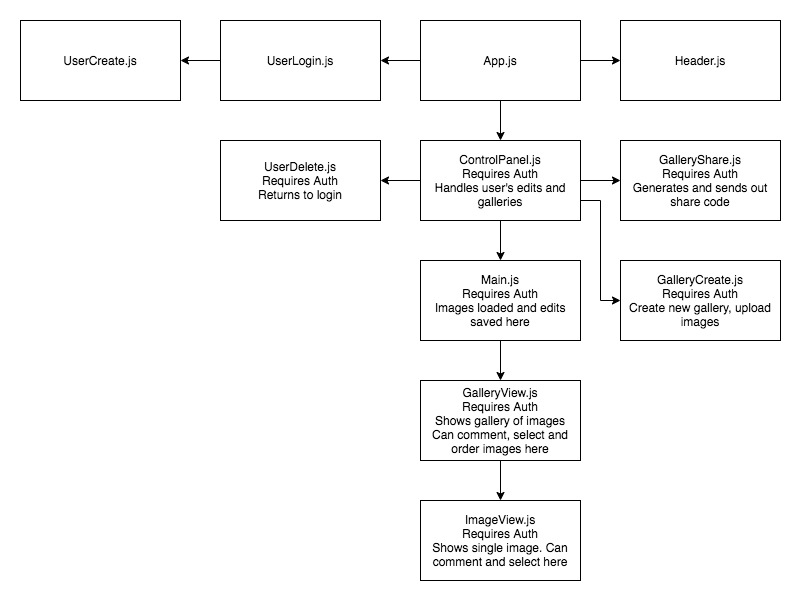
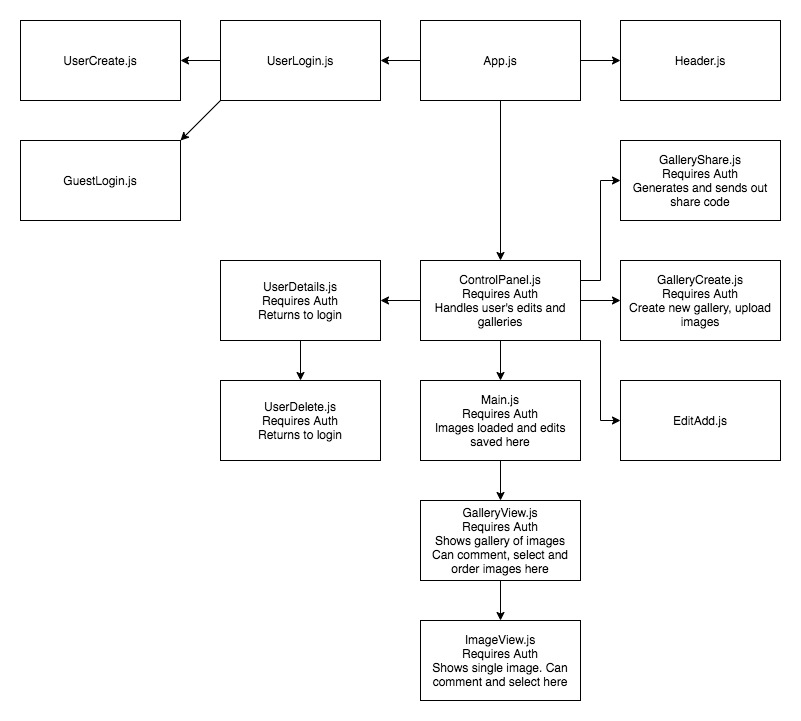
updated readme

diff --git a/src/components/EditShare.jsx b/src/components/EditShare.jsx
@@ -2,7 +2,7 @@ import React from 'react'
 import Header from './shared/Header'
 import { useHistory } from 'react-router-dom'
 
-// awaiting backend 
+// awaiting backend -> renamed to Gallery Share
 
 export default function EditShare(props) {
     const style = {

diff --git a/README.md b/README.md
@@ -67,7 +67,6 @@ These wireframes will be for desktop and tablet views. They will look similar wi
 | ControlPanel   | User info and brains of the app |
 | UserDelete     | Deletes user        |
 | GalleryShare   | Generates share code, shares with others |
-| Main           | Loads images and allows gallery operations |
 | GalleryCreate  | User uploads images and creates galleries |
 | GalleryView    | Overview of images, displays and allows editing here. Images can be sorted, tagged and ordered here |
 | ImageView      | View single image. User can zoom in, comment or select images | 
@@ -77,26 +76,28 @@ These wireframes will be for desktop and tablet views. They will look similar wi
 
 UserController
 GalleryController
-EditController
 PhotoController
 
 #### Routes
 
 | Controller | Operation | VERB | Route |
 |-------|---------|------------|---------|
-| User  | #view | GET | /user/:id|
+| Authentication | login | POST | /auth/login |
+| Authentication | verify | GET | /auth/verify |
+| User  | #show | GET | /user/:id|
 | User | #create | POST | /user |
-| User | #update | Put | /user/:id |
-| User | #delete | DELETE | /user/:id |
-| Gallery | #index | GET | /user/:id/gallery
-| Gallery | #view | GET | /gallery/:id|
-| Gallery | #create | POST | /gallery |
-| Gallery | #update | Put | /gallery/:id |
-| Gallery | #delete | DELETE | /gallery/:id |
-| Photo  | #view | GET | /gallery/:gallery_id/photo/:id|
-| Photo | #create | POST | /gallery/:gallery_id/photo |
-| Photo | #update | Put | /gallery/:gallery_id/photo/:id |
-| Photo | #delete | DELETE | /gallery/:gallery_id/photo/:id |
+| User | #update | PUT | /user/:id |
+| User | #destroy | DELETE | /user/:id |
+| Gallery | #index | GET | /gallery
+| Gallery | #show | GET | /galleries/:id|
+| Gallery | #create | POST | /galleries |
+| Gallery | #update | PUT | /galleries/:id |
+| Gallery | #destroy | DELETE | /galleries/:id |
+| Photo  | #index | GET | /galleries/:gallery_id/photos
+| Photo  | #view | GET | /gallery/:gallery_id/photos/:id|
+| Photo | #create | POST | /gallery/:gallery_id/photos |
+| Photo | #update | PUT | /gallery/:gallery_id/photos/:id |
+| Photo | #delete | DELETE | /gallery/:gallery_id/photos/:id |
 
 
 #### Priority Matrix
@@ -109,10 +110,11 @@ PhotoController
 | File Uploads (Front End) | H | 8 hrs | 12 hrs | |
 | Upload to AWS | H | 12 hrs | 12 hrs | | 
 | Images retrieved and rendered front end | H | 8 hrs | 8 hrs | |
-| User Auth | H | 14 hrs | 6 hrs | |
+| Image view and menu | H | 10 hrs | 6 hrs | |
+| User Auth | H | 14 hrs | 10 hrs | |
 | Sharing | M | 5 hrs | 4 hr | |
-| Styling | M | 8 hrs | 4 hrs | | 
-| Total | | 67 hrs | 62 hrs | |
+| Styling | M | 8 hrs | 10 hrs | | 
+| Total | | 77 hrs | 78 hrs | |
 
 ### Project Schedule
 | Day | Deliverable | Status |
@@ -148,7 +150,10 @@ PhotoController
 ### Project Change Log
 
 - Updated Gallery Model to add 'original_gallery'
-- Removed UserDelete, Main component 
+- Removed Main component - combined it with control panel
+- Added UserDetails, Help, GuestLogin, EditAdd components
+- Added various shared components
+- Added UserDelete function to UserDetails component
 
 ### Code Showcase
 
